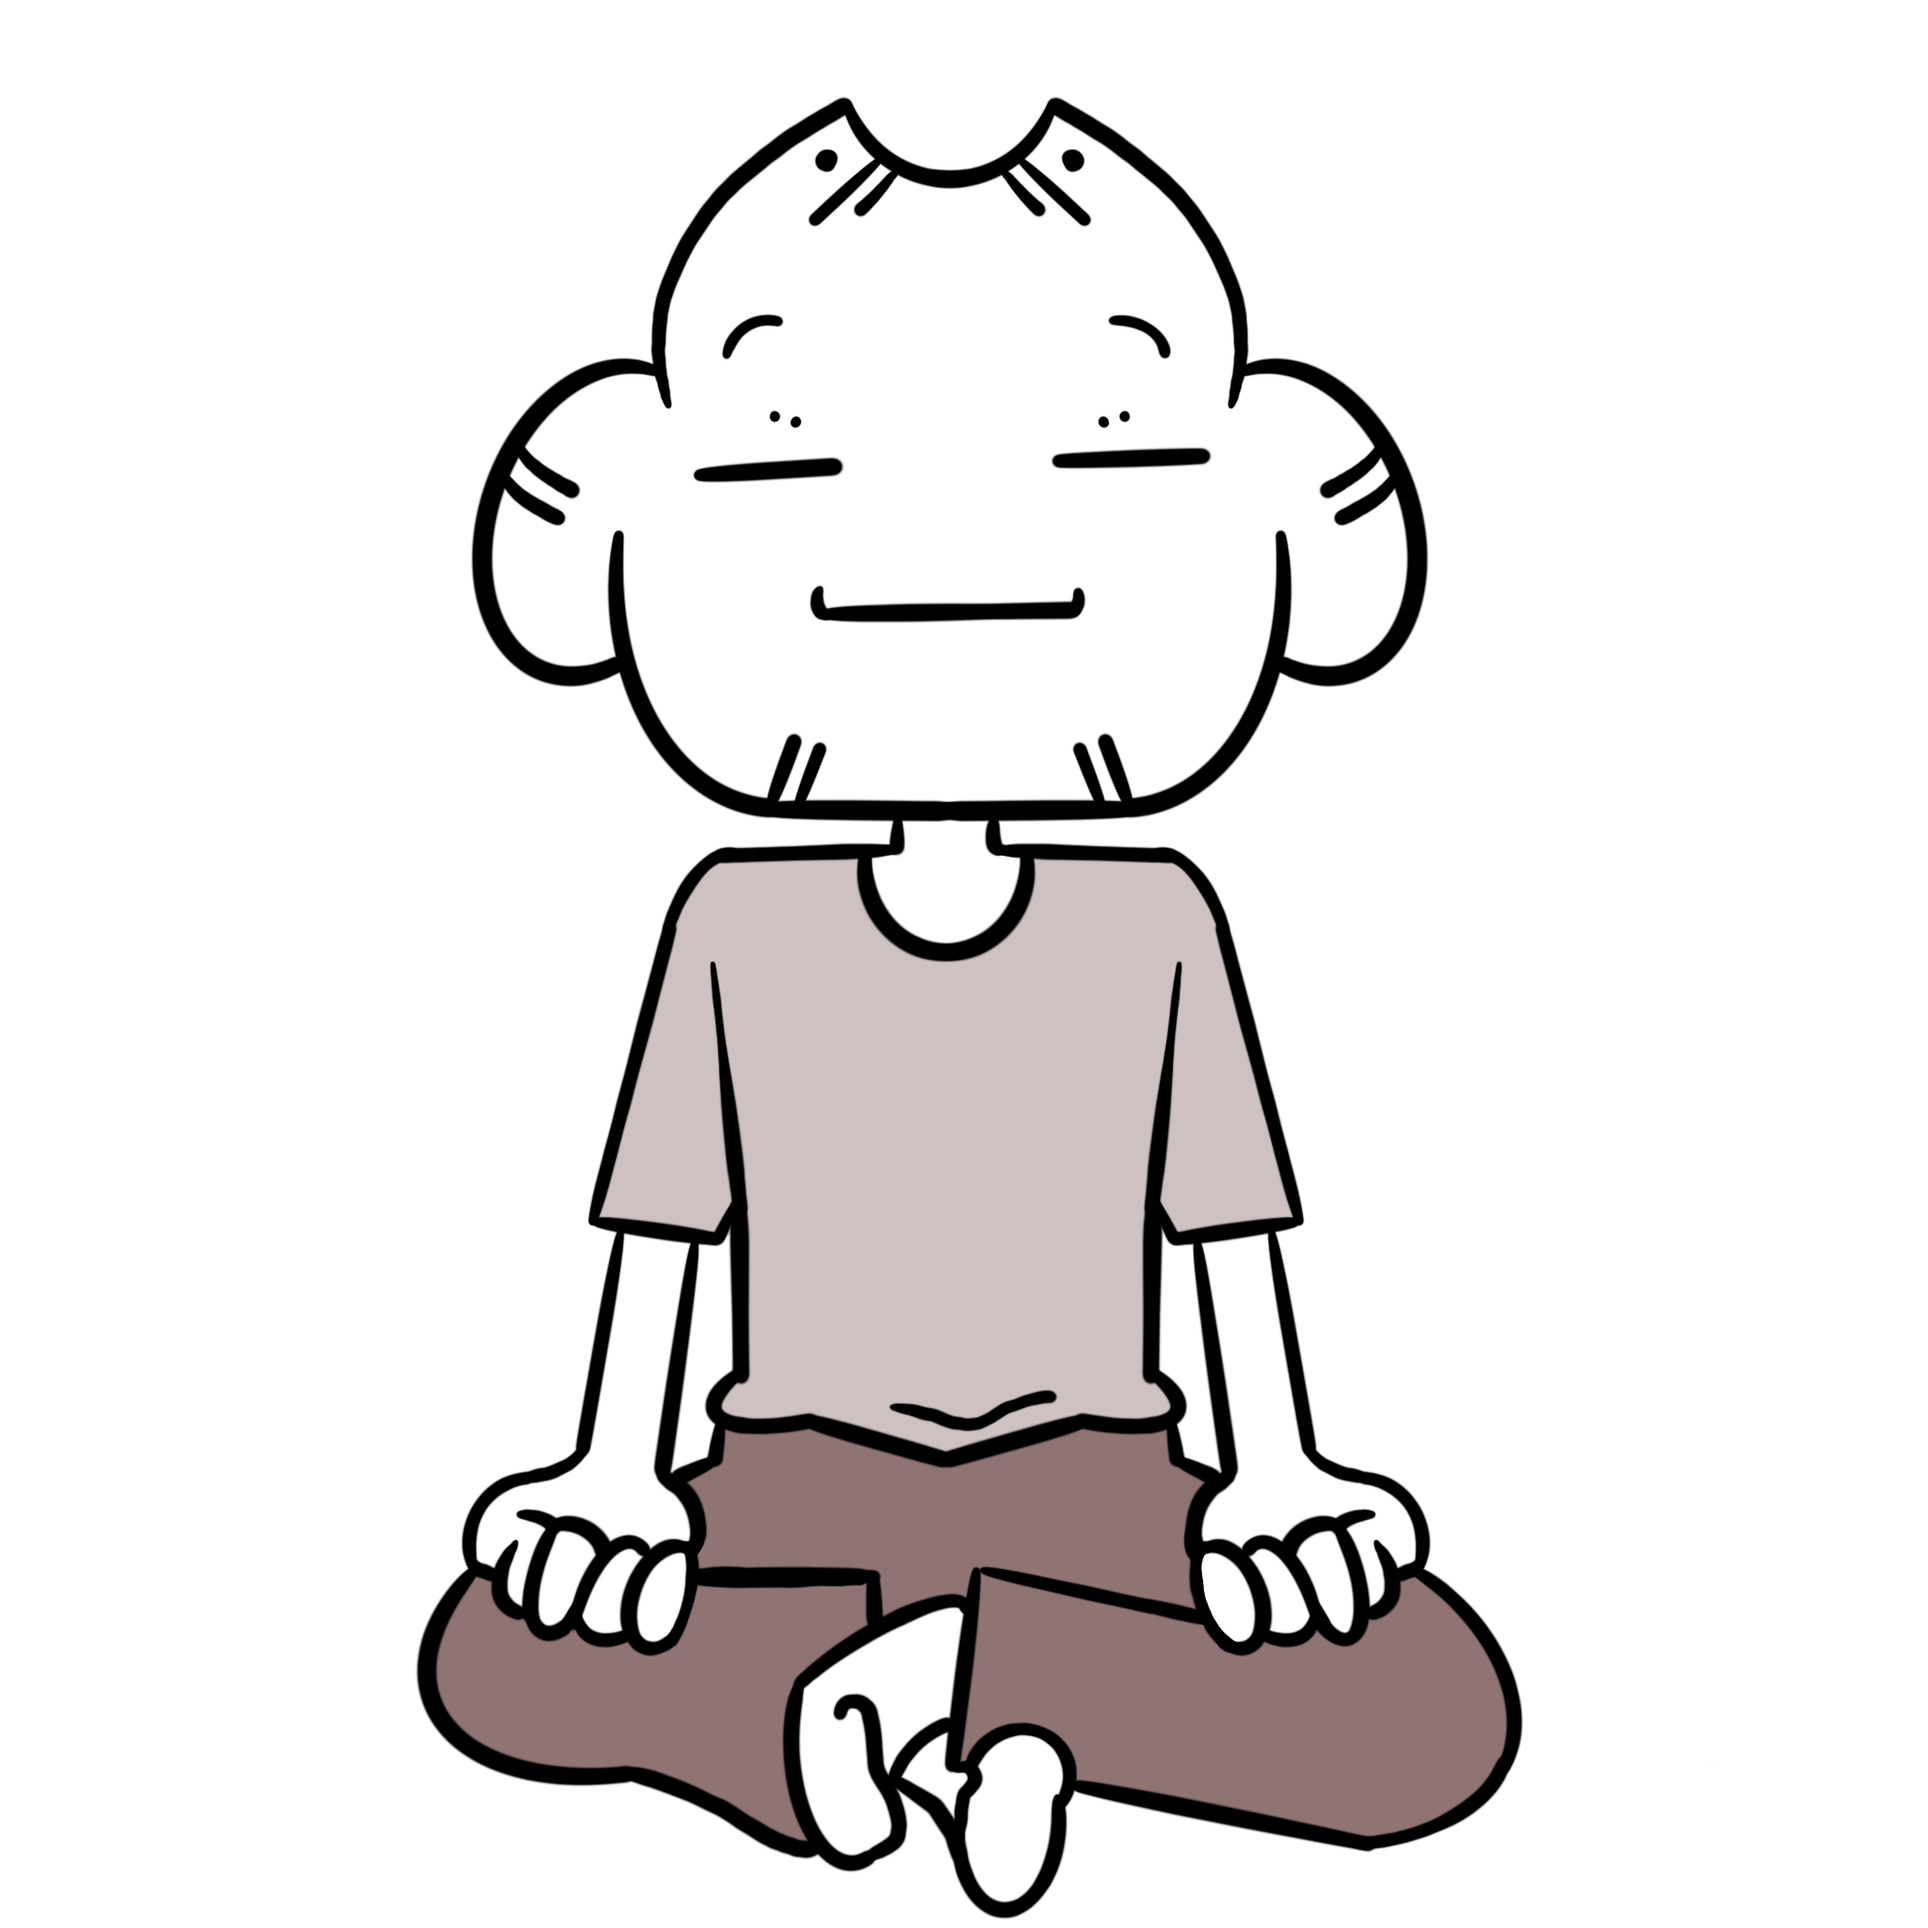
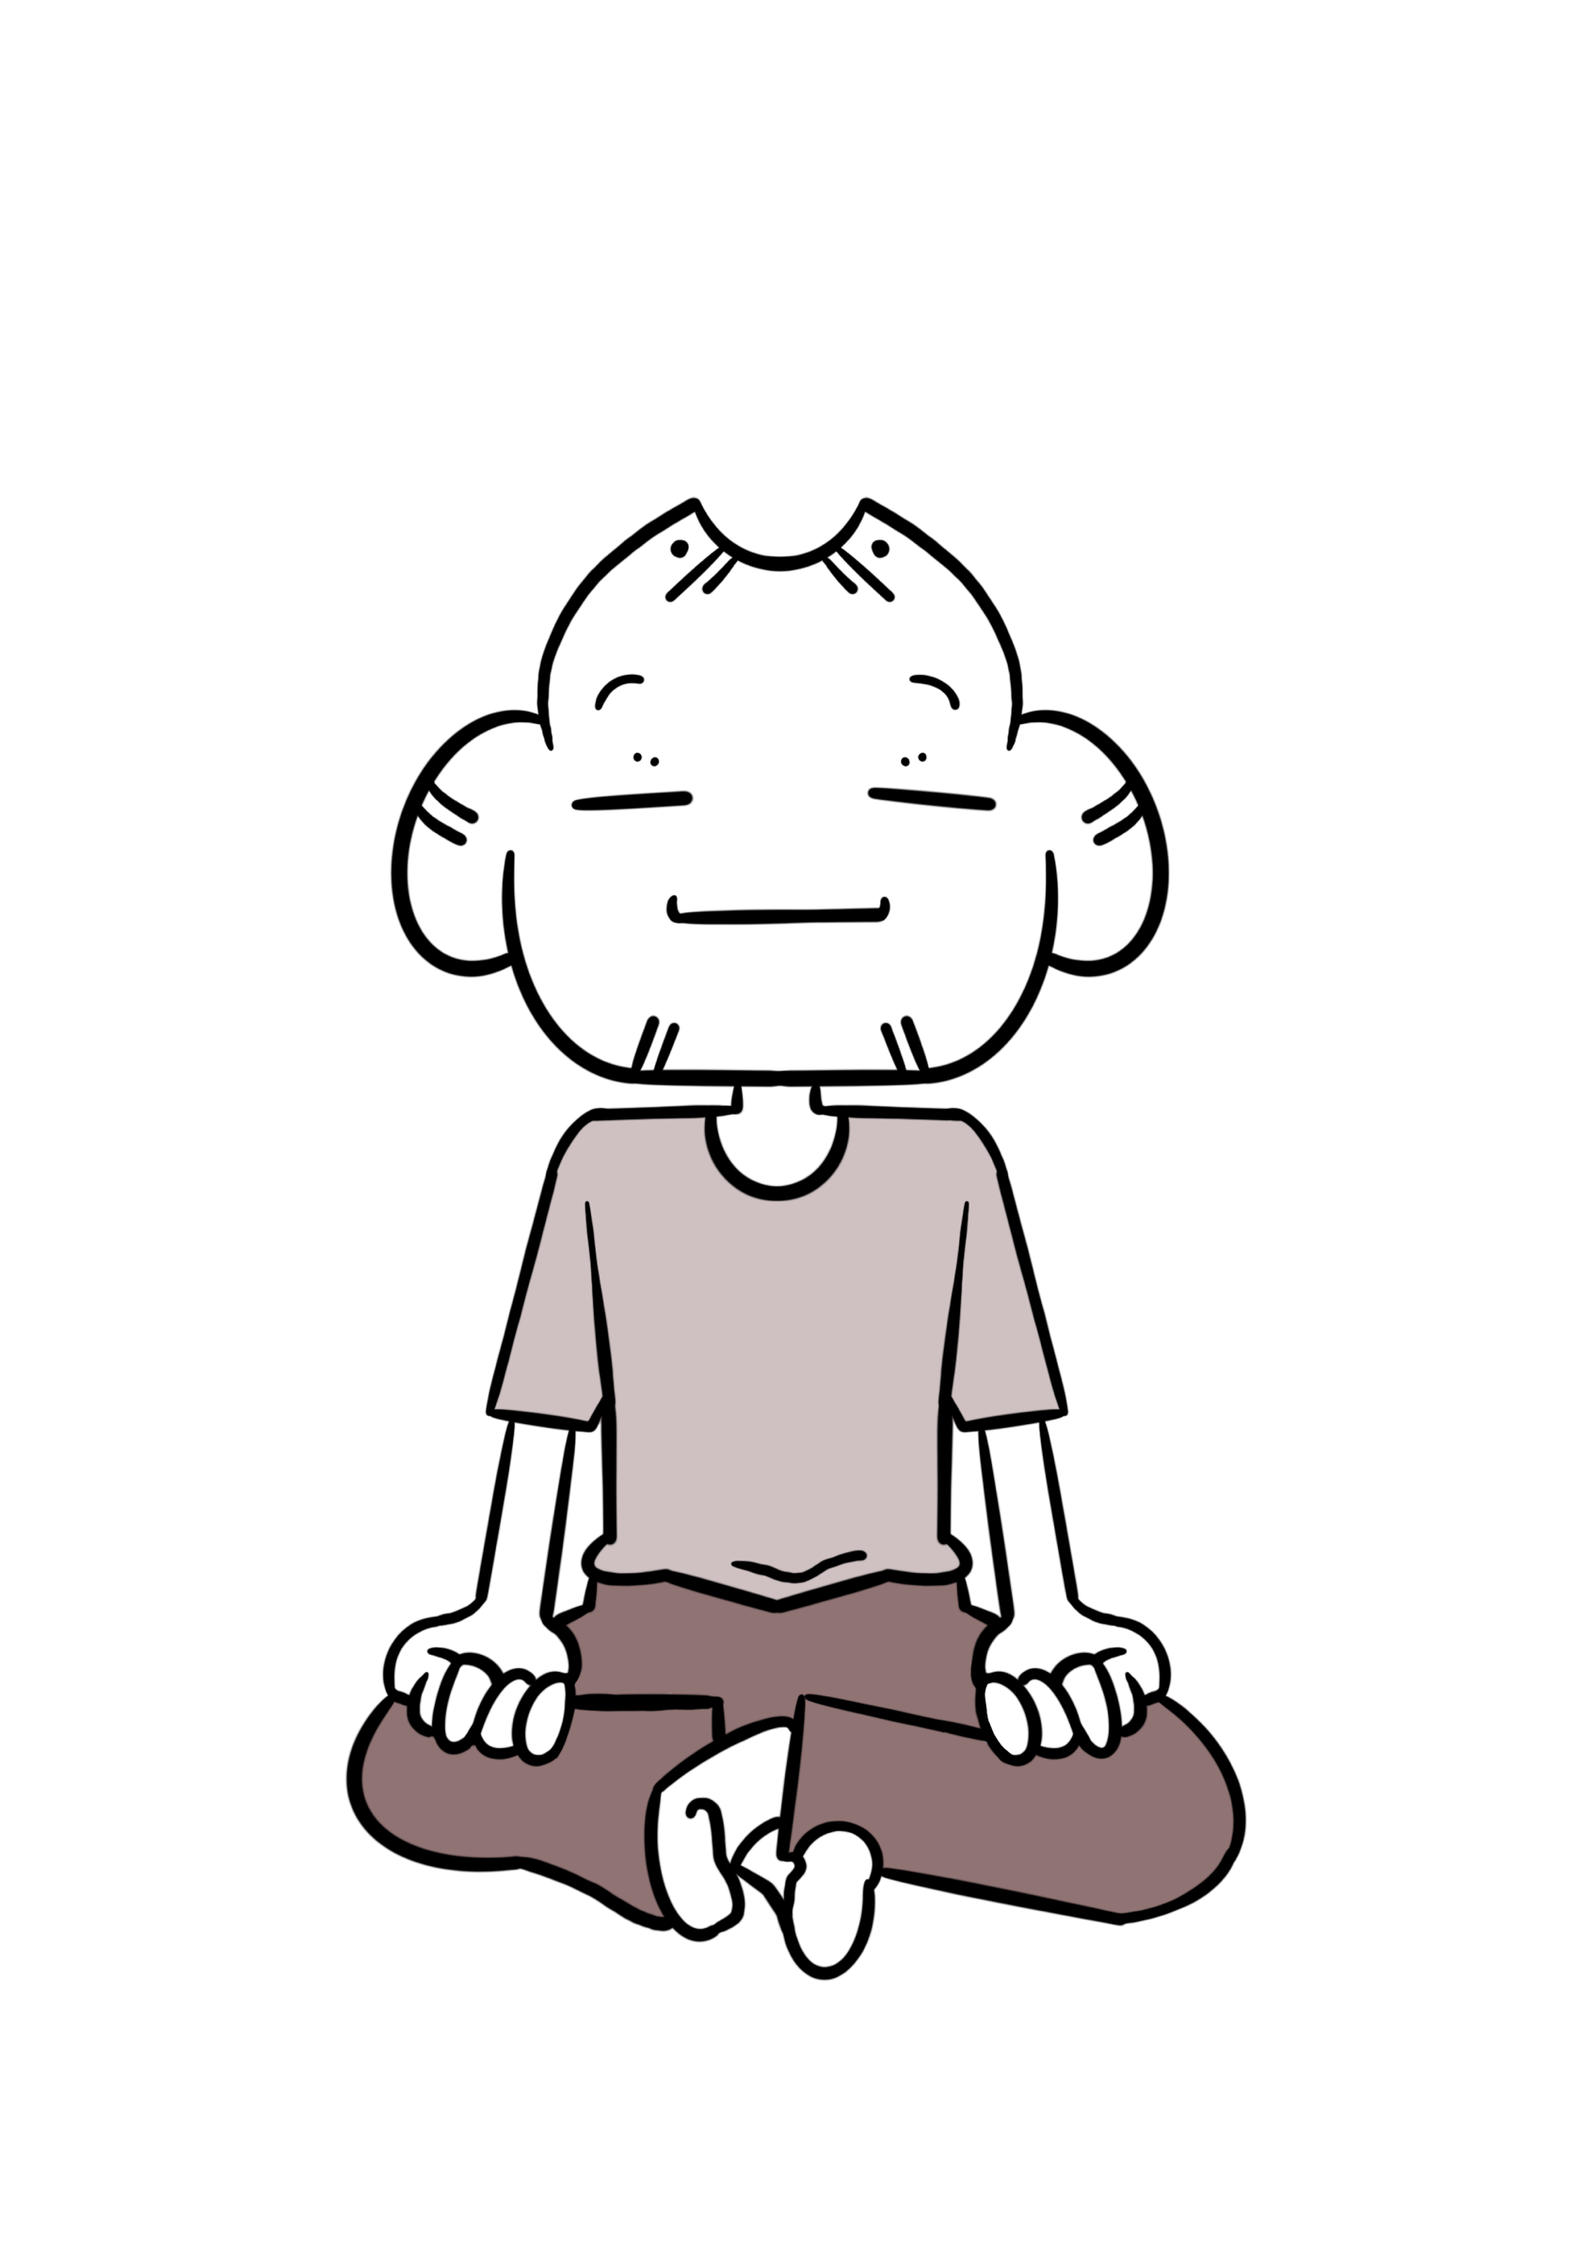
get timer to change character faces depending on status and initial selected character

Changed region(s): [[0.2182, 0.0312, 0.8106, 1.0]]

diff --git a/src/web/src/components/LoginPage.jsx b/src/web/src/components/LoginPage.jsx
@@ -1,55 +1,55 @@
 import React, { useState } from "react";
 import { withRouter } from 'react-router-dom';
-
 import '../Login.css';
 
-const LoginPage = ({ history }) => {
+const LoginPage = ({ history, setCharacterInfo, characters }) => {
   const [selectedCharacter, setSelectedCharacter] = useState("");
 
-  const handleCharacterSelect = (characterName) => {
-    setSelectedCharacter(characterName);
+  const handleCharacterSelect = (characterId) => {
+    setSelectedCharacter(characterId);
+    setCharacterInfo(characters.find((char) => char.id === characterId));
   };
 
   const handleConfirm = () => {
     if (selectedCharacter) {
       localStorage.setItem("selectedCharacter", selectedCharacter);
+      const defaultCharacter = characters.find((char) => char.id === selectedCharacter);
+      setCharacterInfo({
+        name: defaultCharacter.name,
+        image: defaultCharacter.normal
+      });
       history.push("/main");
     }
-  };
+  };  
 
   return (
     <div className="character-container">
       <h2 className="title">Pick Your Study Buddy</h2>
       <div className="characters">
-      <div className={`character-box ${selectedCharacter === "c1-normal.png" ? "selected" : ""}`} onClick={() => handleCharacterSelect("c1-normal.png")}>
-        <img
-          src={require("../assets/c1-normal.png")}
-          alt="Character 1"
-          className={selectedCharacter === "c1-normal.png" ? "selected" : ""}
-          onClick={() => handleCharacterSelect("c1-normal.png")}
-        />
-        </div>
-        <div className="character-box">
-        <img
-          src={require("../assets/c2-normal.png")}
-          alt="Character 2"
-          className={selectedCharacter === "c2-normal.png" ? "selected" : ""}
-          onClick={() => handleCharacterSelect("c2-normal.png")}
-        />
-        </div>
-        <div className="character-box">
-        <img
-          src={require("../assets/c3-normal.png")}
-          alt="Character 3"
-          className={selectedCharacter === "c3-normal.png" ? "selected" : ""}
-          onClick={() => handleCharacterSelect("c3-normal.png")}
-        />
-        </div>
+        {characters.map((char) => (
+          <div
+            key={char.id}
+            className={`character-box ${
+              selectedCharacter === char.id ? "selected" : ""
+            }`}
+            onClick={() => handleCharacterSelect(char.id)}
+          >
+            <img
+              src={char.normal}
+              alt={char.name}
+              className={selectedCharacter === char.id ? "selected" : ""}
+            />
+          </div>
+        ))}
       </div>
       {selectedCharacter && (
         <div className="select-box">
-         <strong><p>WILL THIS BE YOUR STUDY OF BUDDY?</p></strong>
-          <button className="confirm-button" onClick={handleConfirm}>YES</button>
+          <strong>
+            <p>WILL THIS BE YOUR BUDDY OF STUDY?</p>
+          </strong>
+          <button className="confirm-button" onClick={handleConfirm}>
+            YES
+          </button>
         </div>
       )}
     </div>

diff --git a/src/web/src/App.js b/src/web/src/App.js
@@ -1,62 +1,62 @@
 import React, { useState } from "react";
-
-import Person from './components/Person';
-import Timer from './components/Timer';
-import Note from './components/Note';
-import TodoWindow from './components/TodoWindow';
-
-import { BrowserRouter as Router, Route, Switch } from 'react-router-dom';
-
+import { BrowserRouter as Router, Route, Switch, Redirect } from "react-router-dom";
 import LoginPage from "./components/LoginPage";
+import Person from "./components/Person";
+import Timer from "./components/Timer";
+import Note from "./components/Note";
+import TodoWindow from "./components/TodoWindow";
+import characters from "./components/characters";
+import "./App.css";
 
-import Face from './assets/c1-normal.png';
-import BreakFace from './assets/c1-break.png';
-import CheerFace from './assets/c1-cheer.png';
-
-import './App.css';
-
-function App() {
-  const [imageSrc, setImageSrc] = useState(Face);
+const App = () => {
+  const [characterInfo, setCharacterInfo] = useState({});
   const [isBreak, setIsBreak] = useState(false);
 
   const handleTimerComplete = (isBreak) => {
+    const defaultCharacter = characters.find((char) => char.id === localStorage.getItem("selectedCharacter"));
     if (isBreak) {
-      setImageSrc(BreakFace);
+      setCharacterInfo({
+        name: defaultCharacter.name,
+        image: defaultCharacter.break
+      });
     } else {
-      setImageSrc(CheerFace);
+      setCharacterInfo({
+        name: defaultCharacter.name,
+        image: defaultCharacter.normal
+      });
     }
-    setIsBreak(prevIsBreak => !prevIsBreak);
+    setIsBreak(isBreak);
   };
-  
 
   return (
     <Router>
       <Switch>
-        <Route path='/login'>
-        <div>
-          <LoginPage/>
-        </div>
+        <Route exact path="/">
+          <Redirect to="/login" />
         </Route>
-        <Route path='/main'>
+        <Route path="/login">
+          <LoginPage setCharacterInfo={setCharacterInfo} characters={characters} />
+        </Route>
+        <Route path="/main">
           <div className="App">
-            <div className='circle'></div>
+            <div className="circle"></div>
             <h1 className="title">STUDY BUDDY</h1>
-            <Person
-              imageSrc={imageSrc}
-            />
+            <Person characterInfo={characterInfo} />
             <Timer
               onComplete={handleTimerComplete}
               setIsBreak={setIsBreak}
-              setImageSrc={setImageSrc}
+              setCharacterInfo={setCharacterInfo}
+              characterInfo={characterInfo}
+              setBreakImg={setCharacterInfo}
               isBreak={isBreak}
             />
-              <Note/>
-              <TodoWindow/>
+            <Note />
+            <TodoWindow />
           </div>
         </Route>
       </Switch>
     </Router>
   );
-}
+};
 
 export default App;

diff --git a/src/web/src/components/Timer.jsx b/src/web/src/components/Timer.jsx
@@ -1,10 +1,9 @@
 import React, { useState, useEffect, useRef } from 'react';
-import BreakFace from '../assets/c1-break.png';
-import Face from '../assets/c1-normal.png';
 import TimerSound from '../assets/timer-done.mp3';
+import characters from './characters';
 
 
-const Timer = ({ onComplete, setIsBreak, setImageSrc, setBreakImg }) => {
+const Timer = ({ onComplete, setIsBreak, setCharacterInfo, characterInfo, isBreak }) => {
   const [seconds, setSeconds] = useState(1500);
   const [isRunning, setIsRunning] = useState(false);
   const hasPlayedSoundRef = useRef(false);
@@ -15,7 +14,7 @@ const Timer = ({ onComplete, setIsBreak, setImageSrc, setBreakImg }) => {
       intervalId = setInterval(() => setSeconds(prevSeconds => prevSeconds - 1), 1000);
     } else if (seconds === 0 && !hasPlayedSoundRef.current) {
       clearInterval(intervalId);
-      onComplete();
+      onComplete(isBreak);
       const audio = new Audio(TimerSound);
       audio.play();
       hasPlayedSoundRef.current = true;
@@ -25,28 +24,42 @@ const Timer = ({ onComplete, setIsBreak, setImageSrc, setBreakImg }) => {
       });
     }
     return () => clearInterval(intervalId);
-  }, [isRunning, seconds, onComplete]);
-
+  }, [isRunning, seconds, onComplete, isBreak]);
 
   const handleStartStop = () => {
     setIsRunning(prevIsRunning => !prevIsRunning);
-  };
-
-  const handleReset = () => {
-    setIsRunning(false);
-    setSeconds(1500);
-    setIsBreak(false);
-    setImageSrc(Face);
-    hasPlayedSoundRef.current = false;
   };
 
   const takeBreak = () => {
     setIsRunning(false);
     setSeconds(300);
     setIsBreak(true);
-    setImageSrc(BreakFace);
+    const selectedCharacter = JSON.parse(localStorage.getItem("selectedCharacter"));
+    console.log(selectedCharacter);
+    const character = characters.find(char => char.id === selectedCharacter);
+    console.log(character);
+    setCharacterInfo({
+      name: character.name,
+      image: character.break,
+    });
     hasPlayedSoundRef.current = false;
-  }
+  };
+  
+  const handleReset = () => {
+    setIsRunning(false);
+    setSeconds(1500);
+    setIsBreak(false);
+    const selectedCharacter = JSON.parse(localStorage.getItem("selectedCharacter"));
+    console.log(selectedCharacter);
+    const character = characters.find(char => char.id === selectedCharacter);
+    console.log(character);
+    setCharacterInfo({
+      name: character.name,
+      image: character.normal,
+    });
+    hasPlayedSoundRef.current = false;
+  };
+  
 
   const formattedTime = new Date(seconds * 1000).toISOString().substr(14, 5);
 

diff --git a/src/web/src/components/characters.js b/src/web/src/components/characters.js
@@ -1,0 +1,25 @@
+const characters = [
+  {
+    id: 1,
+    name: "Study Buddy 1",
+    normal: require("../assets/c1-normal.png"),
+    break: require("../assets/c1-break.png"),
+    cheer: require("../assets/c1-cheer.png"),
+  },
+  {
+    id: 2,
+    name: "Study Buddy 2",
+    normal: require("../assets/c2-normal.png"),
+    break: require("../assets/c2-break.png"),
+    cheer: require("../assets/c2-cheer.png"),
+  },
+  {
+    id: 3,
+    name: "Study Buddy 3",
+    normal: require("../assets/c3-normal.png"),
+    break: require("../assets/c3-break.png"),
+    cheer: require("../assets/c3-cheer.png"),
+  },
+];
+
+export default characters;

diff --git a/src/web/src/components/Person.jsx b/src/web/src/components/Person.jsx
@@ -1,13 +1,19 @@
-import React from 'react';
+import React, { useEffect, useState } from 'react';
 
-const Person = ({ imageSrc }) => {
+const Person = ({ characterInfo }) => {
+  const [imageSrc, setImageSrc] = useState('');
+
+  useEffect(() => {
+    if (characterInfo.image) {
+      setImageSrc(characterInfo.image);
+    }
+  }, [characterInfo.image]);
+
   return (
     <div className='person-image'>
-      <img src={imageSrc} alt="#"/>
+      <img src={imageSrc} alt={characterInfo.name} />
     </div>
   );
 };
 
-
 export default Person;
-

diff --git a/src/web/src/App.css b/src/web/src/App.css
@@ -3,6 +3,7 @@
   display: flex;
   flex-direction: column;
   align-items: center;
+  height: 100vh;
 }
 
 /* Circle */
@@ -214,6 +215,7 @@
   animation-direction: alternate;
   animation-timing-function: cubic-bezier(0.5, 0.05, 1, 0.5);
   animation-iteration-count: infinite;
+  margin: -70px;
 }
 
 .person-image img {
